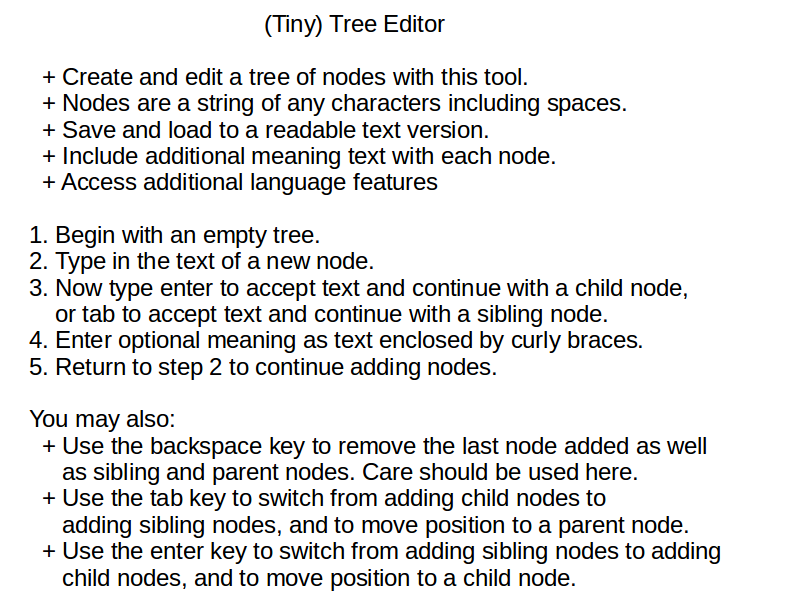
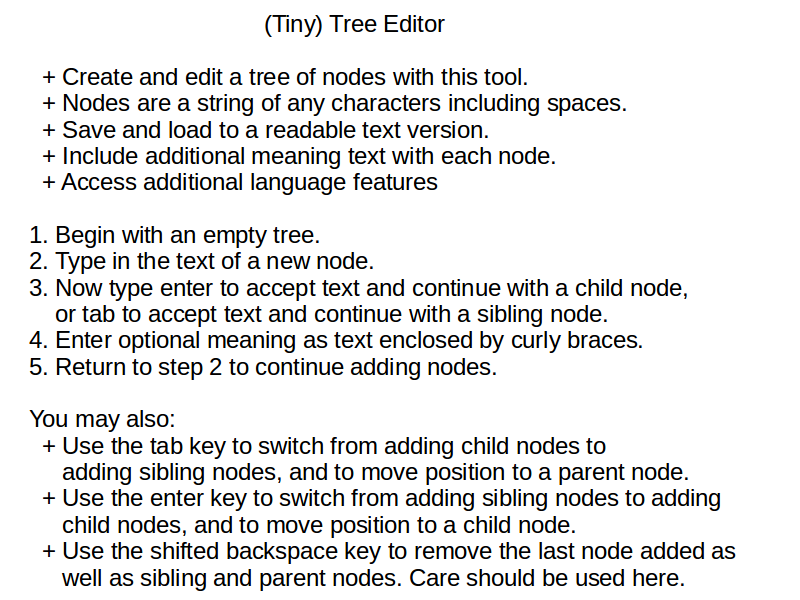
update Blurbs, minor fixes

Changed region(s): [[0.0625, 0.72, 0.9375, 0.99]]

diff --git a/README.md b/README.md
@@ -1,10 +1,11 @@
-# tte
+# tte
 ### (Tiny) Tree Editor
 
   * Create and edit a tree of nodes with this tool.
   * Nodes are a string of any characters including spaces.
-  * Save and load to a readable, linearized text version.
-  * Include free-form meaning text with each node.
+  * Save and load to a readable text version.
+  * Include additional meaning text with each node.
+  * Access additional language features.
 
 1. Begin with an empty tree.
 1. Type in the text of a new node.
@@ -14,28 +15,53 @@
 1. Return to step 2 to continue adding nodes.
 
 You may also:
-  * Use the backspace key to remove the last node added.
   * Use the tab key to switch from adding child nodes to
     adding sibling nodes, and to move position to a parent node.
   * Use the enter key to switch from adding sibling nodes to adding
     child nodes, and to move position to a child node.
+  * Use the shifted backspace key to remove the last node added as 
+    well as sibling and parent nodes. Care should be used here.
      
 Once you have built up your tree you can go back and make changes.
 
-  * Use the arrow, home and end keys or click with the mouse to move
+  * Use the arrow and home keys or click with the mouse to move
     the selected node ( highlighted ) to your desired position.
-  * Or is F4 key to search for a node with search text.
+  * Or is F3 key to search for a node with search text.
   * Use the backslash to begin editing the node in order to change
     the main text and/or meaning text.
   * Use the delete and insert keys to cut from the tree or paste into 
     the tree at the selected node using a paste buffer.
+  * Use the end key to return view to append position.
+  * Drag the entire tree around by grabbing blank area with the mouse. 
+  * Use backslash to view selected node then backslash to return.
 
 Save the tree into a text file with the F2 key, and load that tree back
-with the F1 key. The output file lists the nodes and meanings
-delimited by tab and newline characters, same as was entered.
+with the F1 key. The output file lists the nodes and meanings delimited
+by tab and newline characters. Shifted function keys for JSON style.
 
 The editor tool can hold two trees in memory, but only one is being
 displayed. The second tree is treated a reference tree and is not
-displayed. When a tree becomes the reference tree, links are 
-created pointing to it from the other tree. The F3 key is used to
-swap the two trees.
+displayed. When a tree becomes the reference tree it serves to
+provide additional relationships, and possible restrict what can be 
+entered into the main tree nodes. Shifted F4 toggles entry restriction.
+
+#### Restricted Entry and Hyper Mode
+
+When restrictive entry has been activated with shifted F4, only entries
+which match an example in the reference tree are allowed. The color 
+of the cursor informs you of the validity of what is typed. Green means
+the input so far is accepted, red indicates an erroneous input. Further-
+more, when the entry exactly matches a valid example the typed text 
+becomes green. Only at this point will the tab or enter key be accepted.
+
+To use restrictive entry first create your example tree. Organize the tree
+as you see fit, include labeling nodes prefixed with a ‘ #’. Now use F4
+to make the example tree just created become the reference tree.
+Then use shifted F4 to enter restrictive entry mode.
+
+Once in restrictive mode, you can call up a list possible entries which
+are valid to be entered, based on what you have entered so far. Use the 
+right arrow key to call up hyper mode. Immediately you will see the first
+possibility presented, where the completion text is highlighted as part 
+of the cursor. Use tab or enter key to accept this offer, of use the
+up and down arrow keys to call up all other possible completions.
